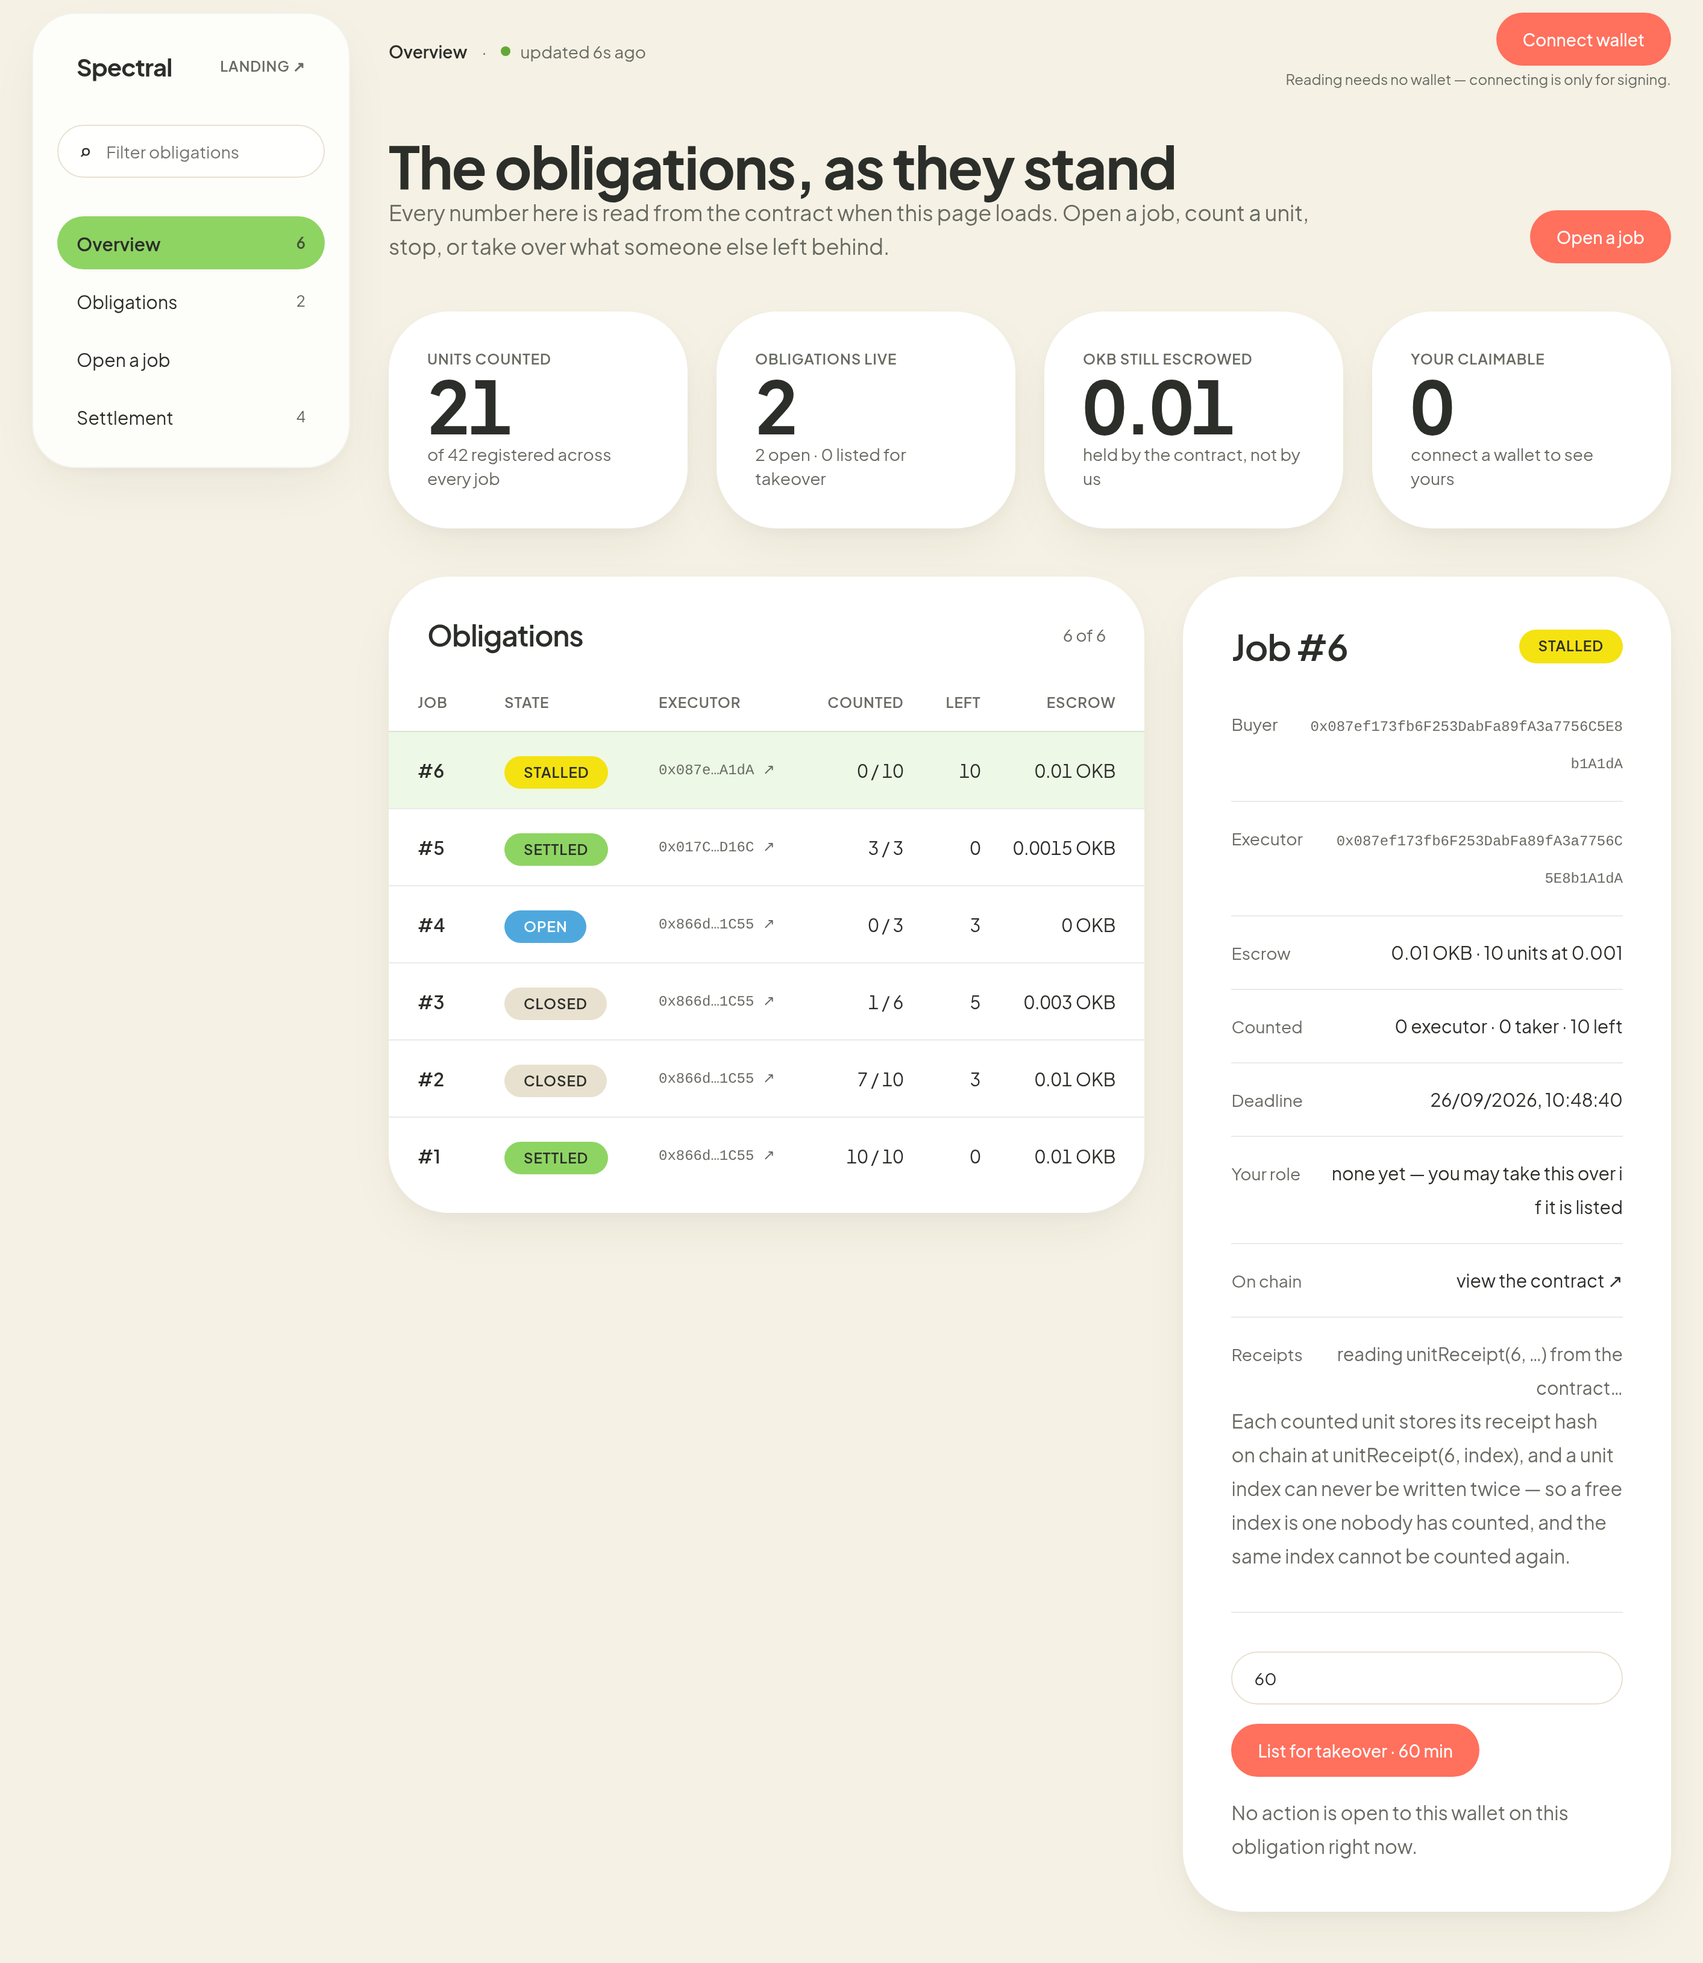
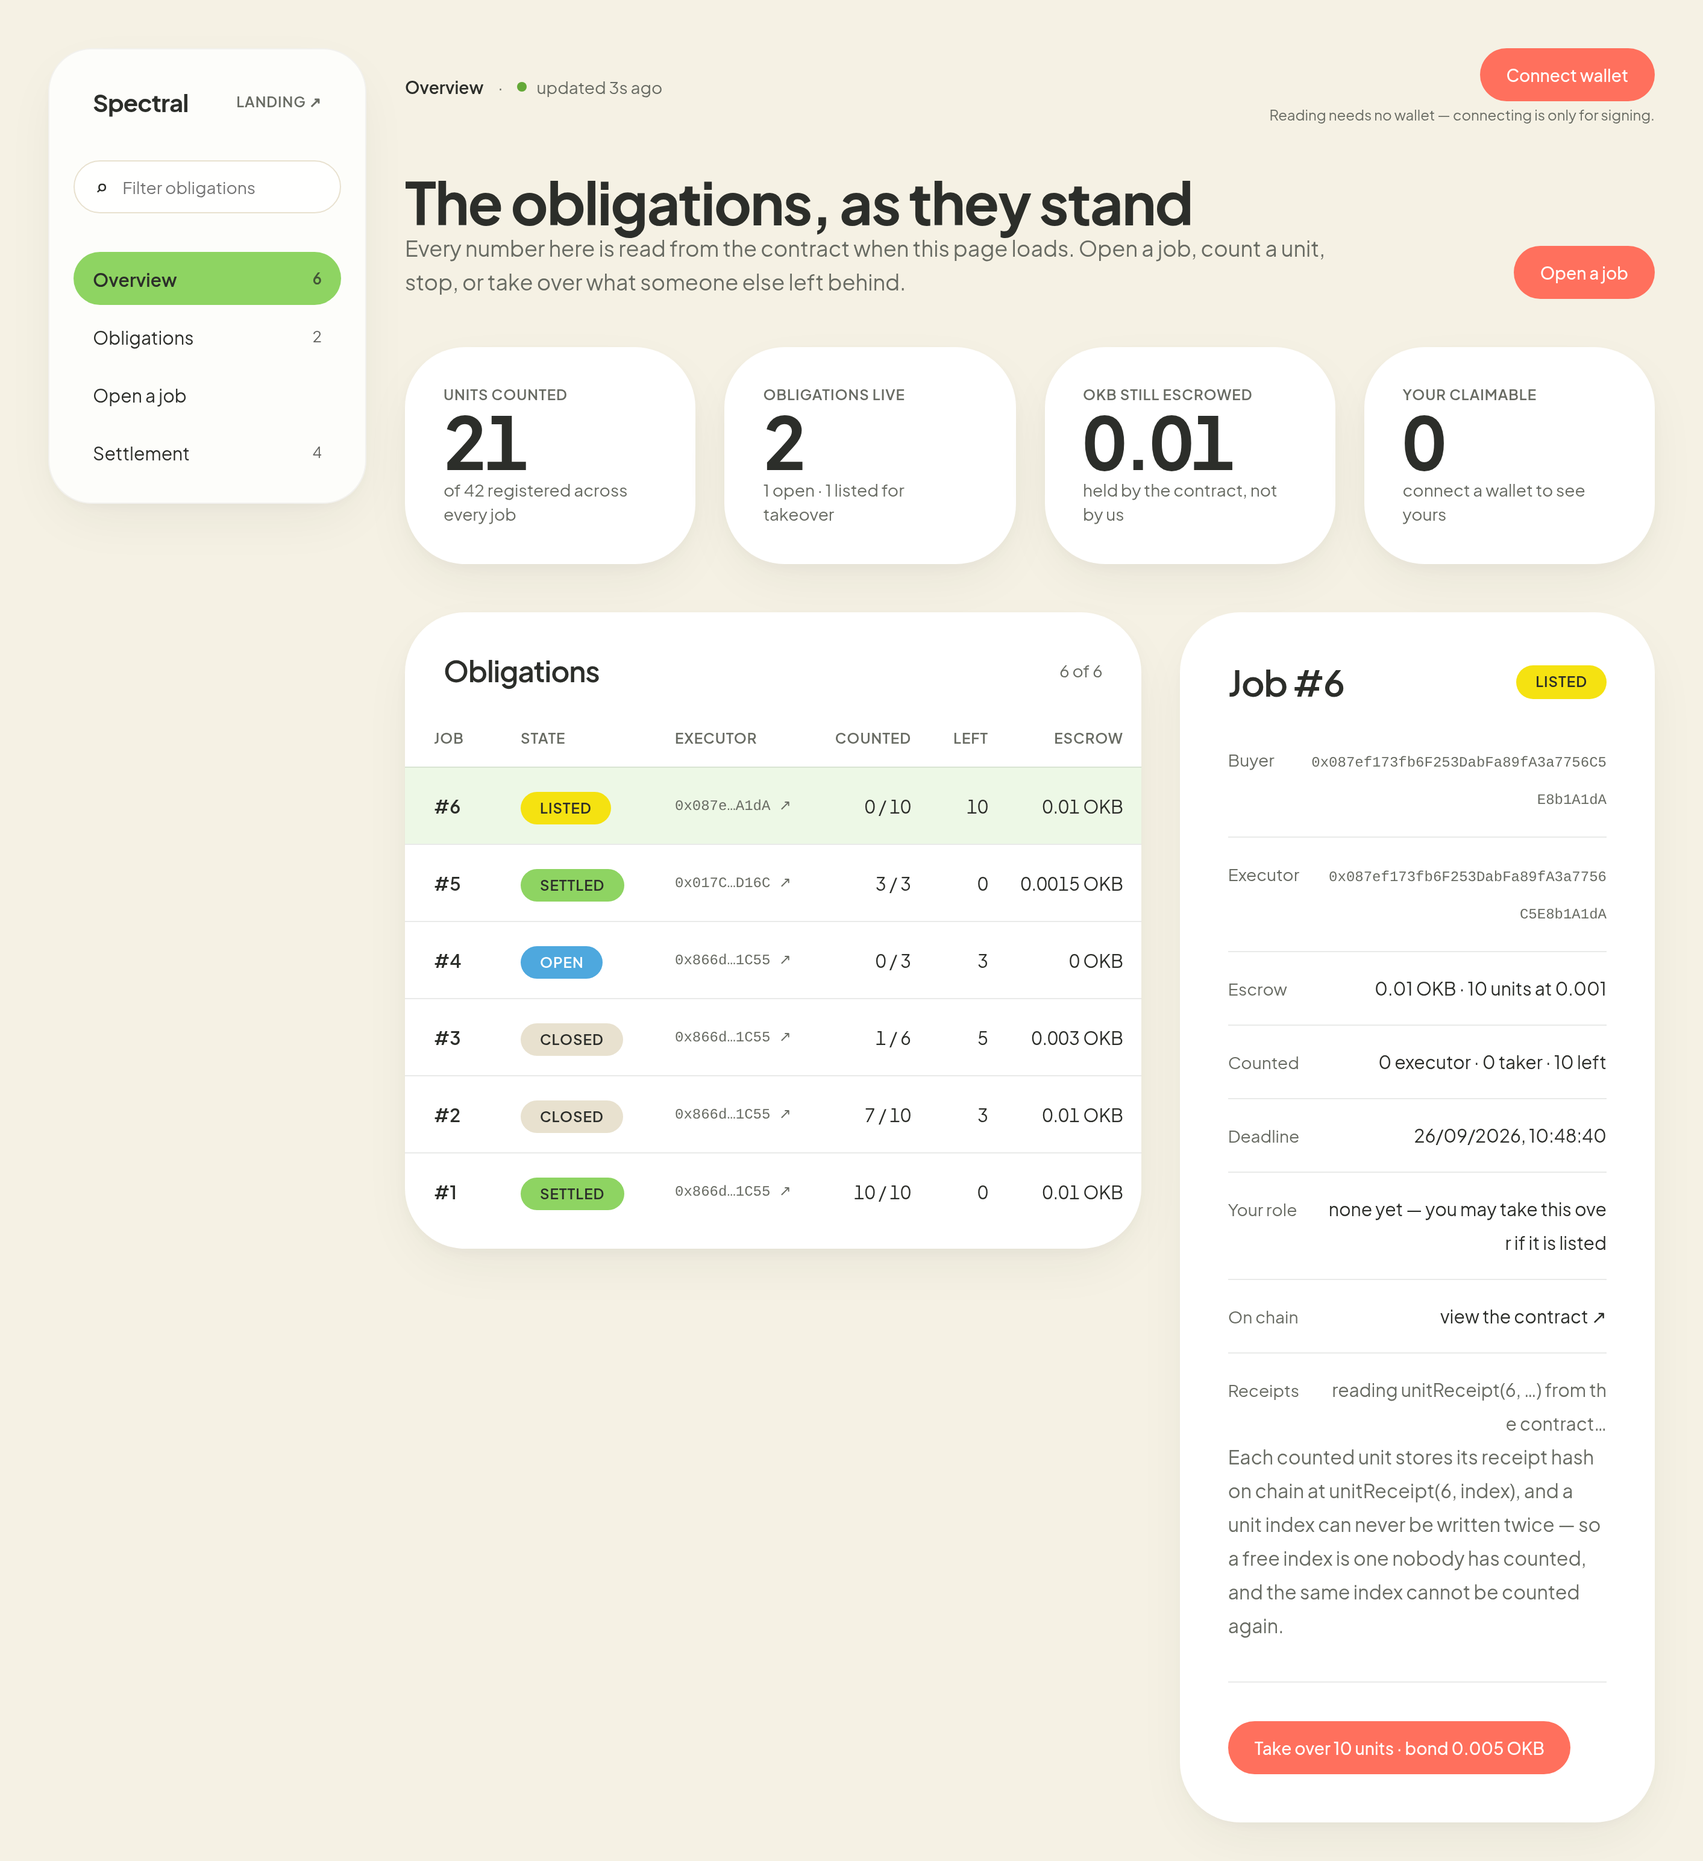
feat(app+readme): the second market is in the HTML, and both boards are re-shot
The token-market panel was client-fetched, so its numbers lived only behind
JavaScript: invisible to a reader with JS off, to a scraper, and to any capture
that does not run the fetch. It is now a server-rendered section that reads the
market at request time and re-renders every 15 seconds (revalidate on the route
segment), and it carries its own anchor, /app#second-market.

The screenshots are re-shot at 2x against the live deployment, so they show the
state the market is actually in: job #6 listed with the contract's own
"take over 10 units - bond 0.005 OKB" action, and the second market with its
live listing (job #3, takeable for a 4.5 tTSLA bond) and its footer aggregate
read off the chain at block 41872634. Captions are read off the images.

docs/RECEIPTS.md gains the transactions behind both live listings, so the
hashes a judge can click match the states the screenshots show.

diff --git a/app/components/TokenMarket.jsx b/app/components/TokenMarket.jsx
@@ -1,62 +1,60 @@
-"use client";
-
-/* The second market, read not written.
+/* The second market, read not written — rendered on the server.
  *
  * The native-value market is the one this app signs for. This panel shows the other
- * deployment of the same state machine, denominated in tTSLA — a tokenized-equity-shaped
- * ERC-20 that exists only on this testnet. The read is the same public endpoint, pointed at
- * a different contract, so what is on screen is the chain and not a story about the chain.
+ * deployment of the same state machine, denominated in tTSLA: a tokenized-equity-shaped
+ * ERC-20 that exists only on this testnet. It reads the market at request time, so the
+ * numbers are the chain's own — and because it renders on the server, the market is in the
+ * HTML: visible to a reader with JavaScript disabled, to a scraper, and to anyone who opens
+ * the page before the client bundle has finished loading.
  *
- * Writes for this market are script-driven (scripts/TokenMarket.s.sol), not wallet-driven
+ * Writes for this market are script-driven (script/TokenMarket.s.sol), not wallet-driven
  * from here, and the panel says so rather than implying a button that does not exist.
  */
-import { useEffect, useState } from "react";
+import abi from "../lib/abi.json";
+import { readBoard } from "../lib/board.mjs";
 
-export default function TokenMarket() {
-  const [board, setBoard] = useState(null);
-  const [err, setErr] = useState(null);
+/* The refresh window lives in app/app/page.jsx (`export const revalidate`), because route
+   segment config is only read from a page or layout, not from a component. */
 
-  useEffect(() => {
-    let alive = true;
-    const load = () =>
-      fetch("/api/board?market=token")
-        .then((r) => r.json())
-        .then((d) => {
-          if (!alive) return;
-          if (d.error) setErr(d.error);
-          else setBoard(d);
-        })
-        .catch((e) => alive && setErr(String(e)));
-    load();
-    const t = setInterval(load, 15000);
-    return () => {
-      alive = false;
-      clearInterval(t);
-    };
-  }, []);
+async function loadBoard() {
+  const venue = process.env.TOKEN_MARKET_ADDRESS;
+  if (!venue) return { error: "TOKEN_MARKET_ADDRESS is not set on this deployment" };
 
-  if (err) {
-    return (
-      <section className="panel">
-        <h2>Second market — not configured on this deployment</h2>
-        <p className="muted">{err}</p>
-      </section>
-    );
+  try {
+    const board = await readBoard({
+      rpcUrl: process.env.RPC_URL,
+      venue,
+      abi,
+      explorerUrl: process.env.EXPLORER_URL || "",
+      nativeSymbol: process.env.TOKEN_SYMBOL || "tTSLA",
+      chainId: process.env.CHAIN_ID ? Number(process.env.CHAIN_ID) : null,
+      chainName: process.env.CHAIN_NAME || "",
+    });
+    return { board, asset: process.env.TOKEN_ASSET_ADDRESS || null };
+  } catch (e) {
+    return { error: e?.shortMessage || e?.message || String(e) };
   }
-  if (!board) {
+}
+
+export default async function TokenMarket() {
+  const { board, asset, error } = await loadBoard();
+
+  if (error) {
     return (
-      <section className="panel">
-        <h2>Second market</h2>
-        <p className="muted">reading the token-denominated market…</p>
+      <section id="second-market" className="mx-8 lg:mx-16 mb-16 rounded-3xl bg-paper-sand p-8 lg:p-10">
+        <h2 className="text-2xl font-semibold text-ink-charcoal mb-2">Second market</h2>
+        <p className="text-sm text-ink-muted">{error}</p>
       </section>
     );
   }
 
   const sym = board.chain?.nativeSymbol || "tTSLA";
   const amt = (v) => v[sym.toLowerCase()] || v.wei;
+  const explorer = board.chain.explorer;
+  const link = (addr) => (explorer ? `${explorer}/address/${addr}` : "#");
 
   return (
-    <section className="mx-8 lg:mx-16 mb-16 rounded-3xl bg-paper-sand p-8 lg:p-10">
+    <section id="second-market" className="mx-8 lg:mx-16 mb-16 rounded-3xl bg-paper-sand p-8 lg:p-10">
       <div className="flex flex-wrap items-center gap-3 mb-3">
         <span className="bg-brand-lilac label-caps px-3 py-1 rounded-full">second market</span>
         <span className="label-caps text-ink-muted">denominated in {sym}</span>
@@ -67,19 +65,33 @@ export default function TokenMarket() {
       </h2>
 
       <p className="text-sm text-ink-muted max-w-3xl mb-6">
-        Escrow and bonds here are <strong className="text-ink-charcoal">{sym}</strong>, a tokenized-equity-shaped
-        ERC-20 that exists only on this testnet: a replica with no issuer, no share behind it and an open faucet.
-        The market is a separate deployment of the same contract at{" "}
+        Escrow and bonds here are <strong className="text-ink-charcoal">{sym}</strong>
+        {asset ? (
+          <>
+            {" ("}
+            <a
+              className="underline decoration-brand-green decoration-2 underline-offset-4 font-mono text-xs"
+              href={link(asset)}
+              target="_blank"
+              rel="noreferrer"
+            >
+              {asset}
+            </a>
+            {")"}
+          </>
+        ) : null}
+        , a tokenized-equity-shaped ERC-20 that exists only on this testnet: a replica with no issuer, no
+        share behind it and an open faucet. The market is a separate deployment of the same contract at{" "}
         <a
           className="underline decoration-brand-green decoration-2 underline-offset-4 font-mono text-xs"
-          href={board.chain.explorer ? `${board.chain.explorer}/address/${board.chain.venue}` : "#"}
+          href={link(board.chain.venue)}
           target="_blank"
           rel="noreferrer"
         >
           {board.chain.venue}
         </a>{" "}
-        — read here, written by <code className="font-mono text-xs">script/TokenMarket.s.sol</code>, since signing
-        for it is a scripted demo rather than a button on this page.
+        — read here, written by <code className="font-mono text-xs">script/TokenMarket.s.sol</code>, since
+        signing for it is a scripted demo rather than a button on this page.
       </p>
 
       <div className="rounded-2xl bg-paper-white p-6">
@@ -96,6 +108,7 @@ export default function TokenMarket() {
             <span className="text-sm text-ink-charcoal text-right">
               {j.state} · {j.countedUnits}/{j.totalUnits} · {j.remainingUnits} left ·{" "}
               <strong>{amt(j.escrow)}</strong> {sym} escrow · {amt(j.bond)} {sym} bond
+              {j.takeable ? ` · takeable for a ${amt(j.requiredBondToTake)} ${sym} bond` : ""}
             </span>
           </div>
         ))}

diff --git a/app/app/app/page.jsx b/app/app/app/page.jsx
@@ -3,6 +3,11 @@ import TokenMarket from "../../components/TokenMarket.jsx";
 
 export const metadata = { title: "Spectral — the venue" };
 
+/* The venue's own numbers are read in the browser, because signing happens there. The token
+   market below them is read on the server and re-rendered at most every 15 seconds, so its
+   numbers are in the HTML and nothing about it needs JavaScript. */
+export const revalidate = 15;
+
 export default function Venue() {
   return (
     <>

diff --git a/README.md b/README.md
@@ -109,7 +109,7 @@ $ RPC_URL=https://testrpc.xlayer.tech/terigon \
 20/20 verified
 ```
 
-`verify_token.py` reads the market and the token it names, keyless: escrow arithmetic per job, counted units never above registered units, the bond never below half the remainder, states inside the six the contract defines, **the market's token balance equal to its credits plus what is still in flight**, no native value held at all (this contract has no payable path), and the token supply a plain faucet mint. Every hash — deploys, both takeovers, the failed close, every claim — is in [docs/TOKEN-MARKET.md](docs/TOKEN-MARKET.md), and the venue page shows this market as a read-only panel fed by `GET /api/board?market=token`.
+`verify_token.py` reads the market and the token it names, keyless: escrow arithmetic per job, counted units never above registered units, the bond never below half the remainder, states inside the six the contract defines, **the market's token balance equal to its credits plus what is still in flight**, no native value held at all (this contract has no payable path), and the token supply a plain faucet mint. Every hash — deploys, both takeovers, the failed close, every claim — is in [docs/TOKEN-MARKET.md](docs/TOKEN-MARKET.md), and [the venue page](https://spectral-venue.vercel.app/app#second-market) shows this market as a read-only panel that the server renders from the same public reader, so the numbers are in the HTML before any JavaScript runs.
 
 What this buys, said without inflation: it shows the mechanism is **not tied to native value**. The invariants, the test suite, the fuzz and the verifier are the same because the machine is the same; only the asset moved. What it does not buy is a claim to be trading an equity — the equity is a replica, and the second market is driven by a script (`script/TokenMarket.s.sol`) rather than by a button in the app, which is why the panel is labelled read-only.
 
@@ -121,7 +121,7 @@ What this buys, said without inflation: it shows the mechanism is **not tied to 
 
 _One take of the deployed venue, driven from the page with a real wallet against X Layer testnet._ The narration is deliberately sparse: it stays quiet through both wallet signatures, so what you hear about is the on-chain result rather than the clicking.
 
-The walkthrough opens the board with all six obligations and their states, opens a new job for ten units, signs the escrow, and then reads that escrow back off the explorer: accepted, 0.01 OKB, block 41,854,761. It stalls the job at the end, which is why the board it closes on shows job #6 sitting live with nothing counted. That is the state the whole mechanism exists for: work that stopped, still on the books, with a price on the remainder instead of a refund.
+The walkthrough opens the board with all six obligations and their states, opens a new job for ten units, signs the escrow, and then reads that escrow back off the explorer: accepted, 0.01 OKB, block 41,854,761. It stalls the job at the end, which is why the board it closes on shows job #6 sitting live with nothing counted. That is the state the whole mechanism exists for: work that stopped, still on the books, with a price on the remainder instead of a refund. That job has since been **listed** — which is the state [the screenshot above](#screenshots) shows, and the reason anyone can now take it.
 
 Both of job #6's transactions are openable: `createJob` and `declareStalled`, in [docs/RECEIPTS.md](docs/RECEIPTS.md).
 
@@ -239,9 +239,13 @@ A reader can check what the contract does; only a rebuild can check that the con
 
 Real captures of the deployed venue at 2×, not mockups. Each caption is read off the image.
 
-**The board as it loads.** Four KPI cards, then every obligation the contract holds: six jobs in four states, the counted figure on each, and the escrow still locked against the unfinished ones. Job #6 is selected, and the panel beside it is that job's whole state: buyer and executor, the escrow arithmetic (`0.01 OKB · 10 units at 0.001`), nothing counted, and the note that no action is open to this wallet until it is listed.
+**The board as it loads.** Four KPI cards — `21` of 42 units counted, `2` obligations live (1 open · 1 listed for takeover), `0.01` OKB still escrowed (held by the contract, not by us) and `0` claimable — then every obligation the contract holds: six jobs across four states. Job #6 is selected and it is **no longer merely stalled**: it is *listed*, and the panel beside it is that job's whole state — buyer and executor, the escrow arithmetic (`0.01 OKB · 10 units at 0.001`), nothing counted and ten units left, and the one action the contract now offers anyone: **take over 10 units · bond 0.005 OKB**.
 
 ![The obligations as they stand](demo/media/venue-board.png)
+
+**The second market, in the HTML before any JavaScript runs.** The same machine deployed a second time with escrow and bonds in `tTSLA`, read on the server and re-rendered every 15 seconds, so these numbers are the page's own markup and not a spinner. Three jobs, and the live one is the listing anyone can take: `#3 Listed · 1/10 · 9 left · 10 tTSLA escrow · takeable for a 4.5 tTSLA bond`. The footer is the aggregate read off the chain — 3 jobs, 12/30 units counted, 10 tTSLA still locked in live jobs, block `41872634`. It has its own anchor: [spectral-venue.vercel.app/app#second-market](https://spectral-venue.vercel.app/app#second-market).
+
+![The second market, escrowing an equity-shaped token](demo/media/venue-token-market.png)
 
 **The rule, stated as two parties and one bond.** The executor is paid for what it counted; the taker is paid for the remainder and posts at least half of it again as a bond, which moves to the buyer if the taker's deadline passes with units still uncounted.
 
@@ -551,7 +555,7 @@ spectral/
 ├── app/                           Next.js 16: landing at / and the venue at /app
 │   ├── lib/board.mjs              the market's read API as one framework-free function
 │   ├── scripts/board-cli.mjs      the same reader in a terminal (--json for agents)
-│   ├── components/TokenMarket.jsx the second market, read-only, on the venue page
+│   ├── components/TokenMarket.jsx the second market, read-only and server-rendered, on the venue page
 │   └── app/api/board/route.js     GET /api/board — keyless, read-only JSON
 ├── docs/BOARD-API.md              endpoint, field glossary, and the calls to act on it
 ├── docs/TOKEN-MARKET.md           the replica equity, the token market, and its receipts
